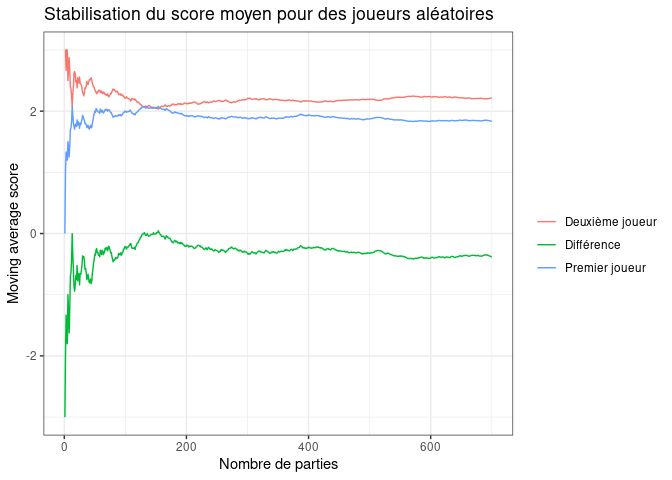
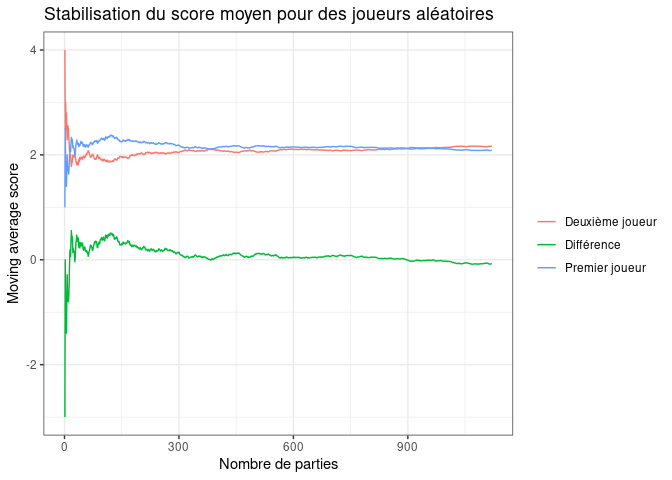
needed to remove cache

diff --git a/idees_de_developpement.md b/idees_de_developpement.md
@@ -11,11 +11,10 @@
 -   [Performance de joueurs](#performance-de-joueurs)
     -   [Joueur aléatoire: le deuxième joueur est un peu
         avantagé](#joueur-aléatoire-le-deuxième-joueur-est-un-peu-avantagé)
-    -   [](#section)
     -   [Joueur aléatoire vs joueur optimisé : certains seeds donnent
         systématiquement des
         égalités](#joueur-aléatoire-vs-joueur-optimisé-certains-seeds-donnent-systématiquement-des-égalités)
-    -   [](#section-1)
+    -   [](#section)
 -   [Si jamais on voulait optimiser encore plus la fonction Décision
     Possible Rapide
     (TakeableCardsOnBoardOptimized)](#si-jamais-on-voulait-optimiser-encore-plus-la-fonction-décision-possible-rapide-takeablecardsonboardoptimized)
@@ -53,8 +52,8 @@ sur un scénario réalise en utilisant:
     ## Unit: milliseconds
     ##                                                                               expr
     ##  RunGame(seed = 1, starting_player = 1, DecisionFunction = ScopAI:::DummyDecision)
-    ##       min       lq     mean   median       uq      max neval
-    ##  3.688212 4.026866 4.670242 4.342771 4.669327 10.29162   100
+    ##       min       lq     mean   median      uq      max neval
+    ##  4.412371 4.504276 5.060657 4.621538 4.97807 11.69572   100
 
 Tant que deux fonctions de décision prennent les mêmes décisions elles
 seront évaluées sur la même série de cartes.
@@ -169,7 +168,7 @@ Joueur aléatoire: le deuxième joueur est un peu avantagé
 
 ![](idees_de_developpement_files/figure-markdown_strict/unnamed-chunk-8-1.png)
 
-Le deuxième joueur semble avantagé !
+First or second players seem to have no advantage
 
 Joueur aléatoire vs joueur optimisé : certains seeds donnent systématiquement des égalités
 ------------------------------------------------------------------------------------------
@@ -179,23 +178,23 @@ Joueur aléatoire vs joueur optimisé : certains seeds donnent systématiquement
     ## # A tibble: 10 x 9
     ##    seed_used number_of_eval player1_started player2_started score1_sum
     ##        <int>          <int>           <int>           <int>      <dbl>
-    ##  1         1             10               6               4         50
-    ##  2         2             10               6               4         12
-    ##  3         3             10               3               7         30
-    ##  4         4             10               5               5         25
-    ##  5         5             10               2               8         24
-    ##  6         6             10               6               4         34
-    ##  7         7             10               6               4         34
-    ##  8         8             10               5               5         10
-    ##  9         9             10               6               4         42
-    ## 10        10             10               5               5         25
+    ##  1         1             10               7               3         44
+    ##  2         2             10               5               5         20
+    ##  3         3             10               6               4         24
+    ##  4         4             10               5               5         20
+    ##  5         5             10               5               5         25
+    ##  6         6             10               3               7         40
+    ##  7         7             10               7               3         40
+    ##  8         8             10               4               6         30
+    ##  9         9             10               5               5         55
+    ## 10        10             10               3               7         40
     ## # … with 4 more variables: score2_sum <dbl>, n_wins_for_1 <int>,
     ## #   n_wins_for_2 <int>, n_ties <int>
 
     ## # A tibble: 1 x 9
     ##   seed_used number_of_eval player1_started player2_started score1_sum score2_sum
     ##   <chr>              <int>           <int>           <int>      <dbl>      <dbl>
-    ## 1 all                  100              50              50        286        143
+    ## 1 all                  100              50              50        338        120
     ## # … with 3 more variables: n_wins_for_1 <int>, n_wins_for_2 <int>, n_ties <int>
 
 Il serait intéressant de comprendre ce qu’a ce deck de si particulier !
